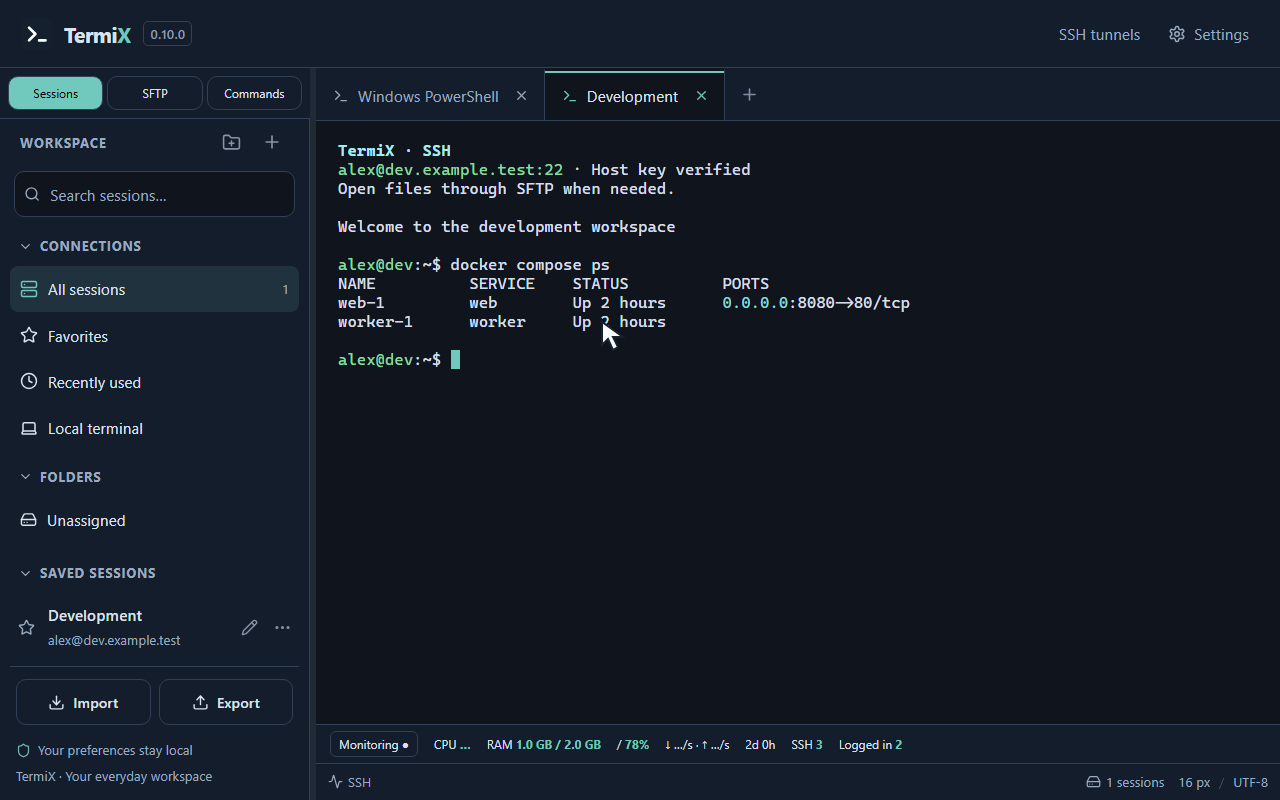
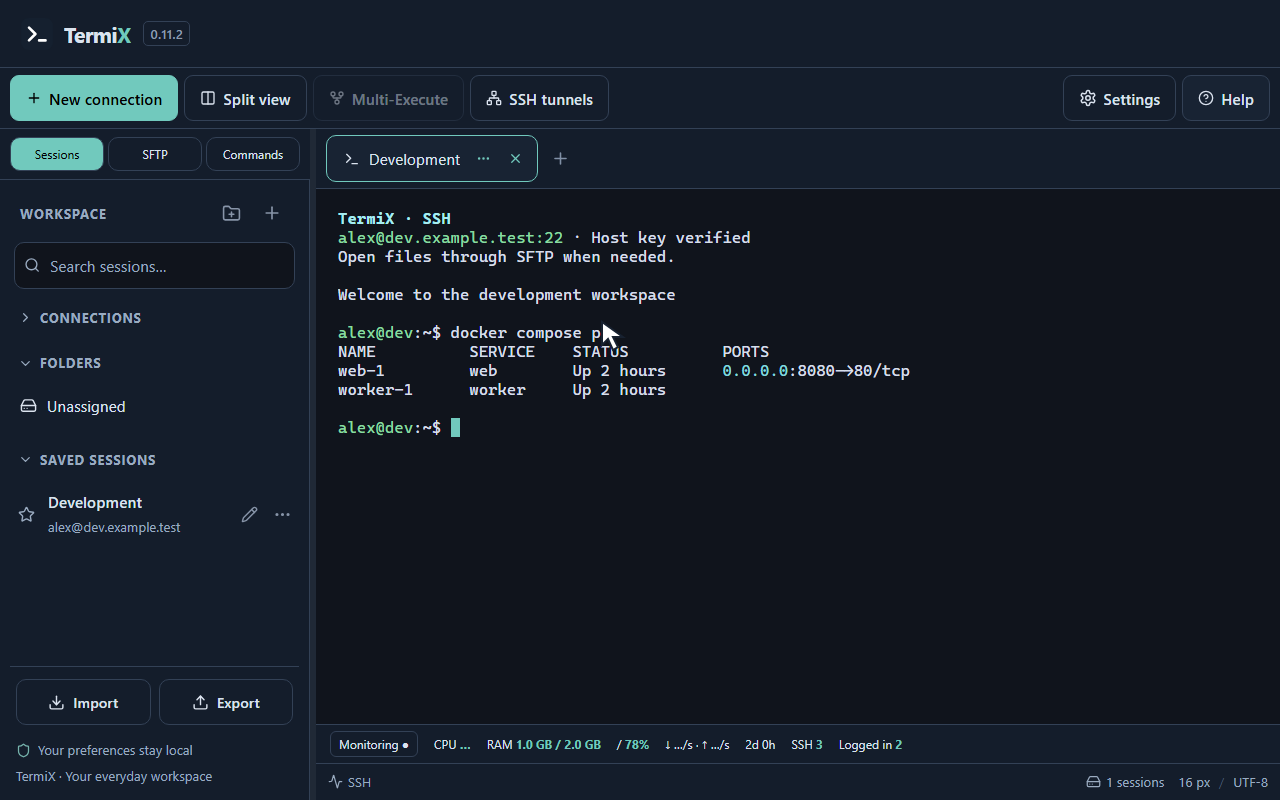
Refresh TermiX project descriptions and v0.11.2 media

diff --git a/README.md b/README.md
@@ -1,8 +1,7 @@
 <div align="center">
   <img src="public/termix.svg" width="76" alt="TermiX terminal icon">
   <h1>TermiX</h1>
-  <p><strong>Your terminal. Your servers. One calm workspace.</strong></p>
-  <p>A modern SSH, SFTP and terminal workspace built with Rust and Tauri.</p>
+  <p>SSH, SFTP and local terminals for Windows, with an integrated editor.</p>
   <p><a href="https://github.com/TomateMozzarella/TermiX/releases"><strong>Download for Windows</strong></a> · <a href="#see-it-in-action">Watch the demo</a> · <a href="docs/ROADMAP.md">Roadmap</a> · <a href="docs/README.de.md">Deutsch</a></p>
 </div>
 
@@ -24,12 +23,12 @@ Connect to your servers, browse remote files and keep your everyday commands clo
 
 | Workspace | Included |
 | --- | --- |
-| Terminals | Local shells and SSH; reorder, rename, colour and pin tabs; display up to six existing terminals. |
-| Connections | Saved sessions, folders, favourites, recent connections, search and metadata import/export. |
+| Terminals | Local shells and SSH, scrollable tabs with custom colours, up to six panes, and Multi-Execute with a preview of the targets. |
+| Connections | Saved sessions, folder search, favourites, scoped JSON import/export, alternate SSH login and SFTP from the session menu. |
 | Remote files | Browse SFTP on the verified SSH connection; upload whole folders or files, download files, create and remove files or empty folders. |
 | SSH tunnels | Explicit local/remote TCP forwarding with loopback defaults, active connection counts and Stop. |
-| Editing | Integrated Monaco editor, find/replace, read-only comparison, maximize and explicit save to server; optional external editor. |
-| Commands | A compact, searchable sidebar for named commands, with Play, double-click and context actions. |
+| Editing | Integrated Monaco editor with find/replace, comparison, explicit server saves and a read-only view of terminal output. External editing is optional. |
+| Commands | Search, run, import and export named commands. JSON imports show a preview before adding commands to the library. |
 | Monitoring | Read-only Linux CPU, RAM, disk, network, uptime and visible SSH/user metrics. |
 | Appearance | Light/dark/system, accent colours, readable font and UI scaling; categorized settings and first-run setup. |
 
@@ -40,9 +39,16 @@ Connect to your servers, browse remote files and keep your everyday commands clo
 </tr>
 </table>
 
-### New in v0.10
+### Workspace updates
 
-[v0.10.0 is published](https://github.com/TomateMozzarella/TermiX/releases/tag/v0.10.0): local/remote SSH TCP tunnels, whole-folder SFTP uploads including empty subdirectories, clearer light mode, larger settings, direct command execution, optional grouped file reminders and a shorter tab menu with named colour circles. See the [version notes](docs/releases/v0.10.0.md) for limits.
+[v0.11.2](docs/releases/v0.11.2.md) adds custom tab colours, saved command import/export, session and folder context menus, and a read-only terminal output view. The [v0.11.1 notes](docs/releases/v0.11.1.md) cover the toolbar, help, split previews and tab scrolling.
+
+<table>
+<tr>
+<td width="50%"><img src="docs/media/split-layouts-dark.png" alt="Visual split layout options for one to six terminals"><p>Preview the terminal layout before switching.</p></td>
+<td width="50%"><img src="docs/media/commands-light.png" alt="Saved commands with import and export controls"><p>Manage named commands and move them between installations.</p></td>
+</tr>
+</table>
 
 Detached windows, additional protocols and resumable folder transfers remain [planned](docs/ROADMAP.md).
 
@@ -59,10 +65,6 @@ Keep the portable `data` folder when updating. WebView2 Runtime is required. Dow
 SSH host keys are verified; changed keys require explicit review. Passwords use the Windows credential vault rather than session JSON. External edits require transfer approval and retain remote-conflict checks. Monitoring is read-only. Commands run only when you invoke them; tunnels never restore automatically.
 
 This is active development software. See [security scope and limitations](docs/SECURITY.md), [release notes](docs/releases) and [verified build history](docs/PROJECT-HISTORY.md).
-
-## Workspace redesign
-
-The workspace opens with no terminals and puts connection, split, Multi-Execute and tunnel controls in the toolbar. [Version 0.11.0](docs/releases/v0.11.0.md) introduced these workflows. The [0.11.1 follow-up](docs/releases/v0.11.1.md) refines the tabs, menus and dialogs.
 
 ## Build and contribute
 

diff --git a/docs/README.de.md b/docs/README.de.md
@@ -10,14 +10,17 @@ TermiX verbindet lokale Terminals, SSH, SFTP und einen integrierten Editor in ei
 
 ## Funktionen
 
-- Sitzungen mit Ordnern, Favoriten, Suche und Import/Export verwalten.
-- Terminal-Tabs sortieren, umbenennen, einfärben und anheften; bis zu sechs Terminals gleichzeitig anzeigen.
+- Sitzungen und Ordner per Rechtsklick verwalten und gezielt als JSON importieren oder exportieren. Bei SSH kannst du dich mit einem anderen Benutzernamen verbinden oder SFTP öffnen.
+- Terminal-Tabs sortieren, umbenennen, mit einer eigenen Farbe markieren und anheften. Bis zu sechs Terminals gleichzeitig anzeigen und Befehle per Multi-Execute an die bestätigten Ziele senden.
 - Dateien über die geprüfte SSH-Verbindung per SFTP übertragen und bearbeiten.
-- Monaco mit Suchen/Ersetzen und Dateivergleich oder einen externen Editor verwenden.
-- Benannte Befehle in einer eigenen Seitenleiste speichern und gezielt ausführen.
+- Monaco mit Suchen, Ersetzen und Dateivergleich oder einen externen Editor verwenden. Terminalausgaben lassen sich schreibgeschützt im integrierten Editor öffnen.
+- Benannte Befehle in der Seitenleiste speichern, ausführen und als JSON importieren oder exportieren.
+- Lokale und entfernte TCP-Weiterleitungen über eine geprüfte SSH-Verbindung einrichten.
 - CPU, RAM, Speicherplatz und weitere Linux-Metriken beobachten.
 
-[Version 0.10 ist veröffentlicht](https://github.com/TomateMozzarella/TermiX/releases/tag/v0.10.0): vollständige Ordner-Uploads, SSH-Tunnel, bessere Lesbarkeit im hellen Modus und weitere Bedienungsverbesserungen. 126 Prüfungen sowie Installer-, Update- und Portable-Prüfungen waren erfolgreich. Multi-Execute und weitere Protokolle sind geplant.
+[Änderungen in v0.11.2](releases/v0.11.2.md) · [Veröffentlichte Windows-Versionen](https://github.com/TomateMozzarella/TermiX/releases)
+
+![Deutschsprachige Hilfe mit Projektlinks und Bedienhinweisen](media/help-de-dark.png)
 
 ## Installation oder portable Nutzung
 

diff --git a/docs/media/README.md b/docs/media/README.md
@@ -1,5 +1,5 @@
 # Project media
 
-Captured from built TermiX 0.10 UI with Playwright and the existing mock-IPC fixture. All hosts, users, file contents and metrics are illustrative. No customer data or real server connection is recorded.
+Captured from the built TermiX 0.11.2 UI with Playwright and mock IPC. Hosts, users, file contents and metrics are illustrative.
 
-Reproduce from repository root: `npx playwright test --config scripts/project-demo.config.ts`, then `python scripts/make-project-gif.py` (Pillow required for GIF encoding only). The GIF includes an explicit pointer overlay following the demonstrated controls. PNGs retain original UI dimensions. Intermediate frames are not committed.
+Capture the walkthrough from the repository root with `npx playwright test --config scripts/project-demo.config.ts`, then encode it with `python scripts/make-project-gif.py` (requires Pillow). The Playwright suite captures the split, command and help views when `TERMIX_PREVIEW_DIR` is set. The GIF pointer follows the demonstrated controls.
